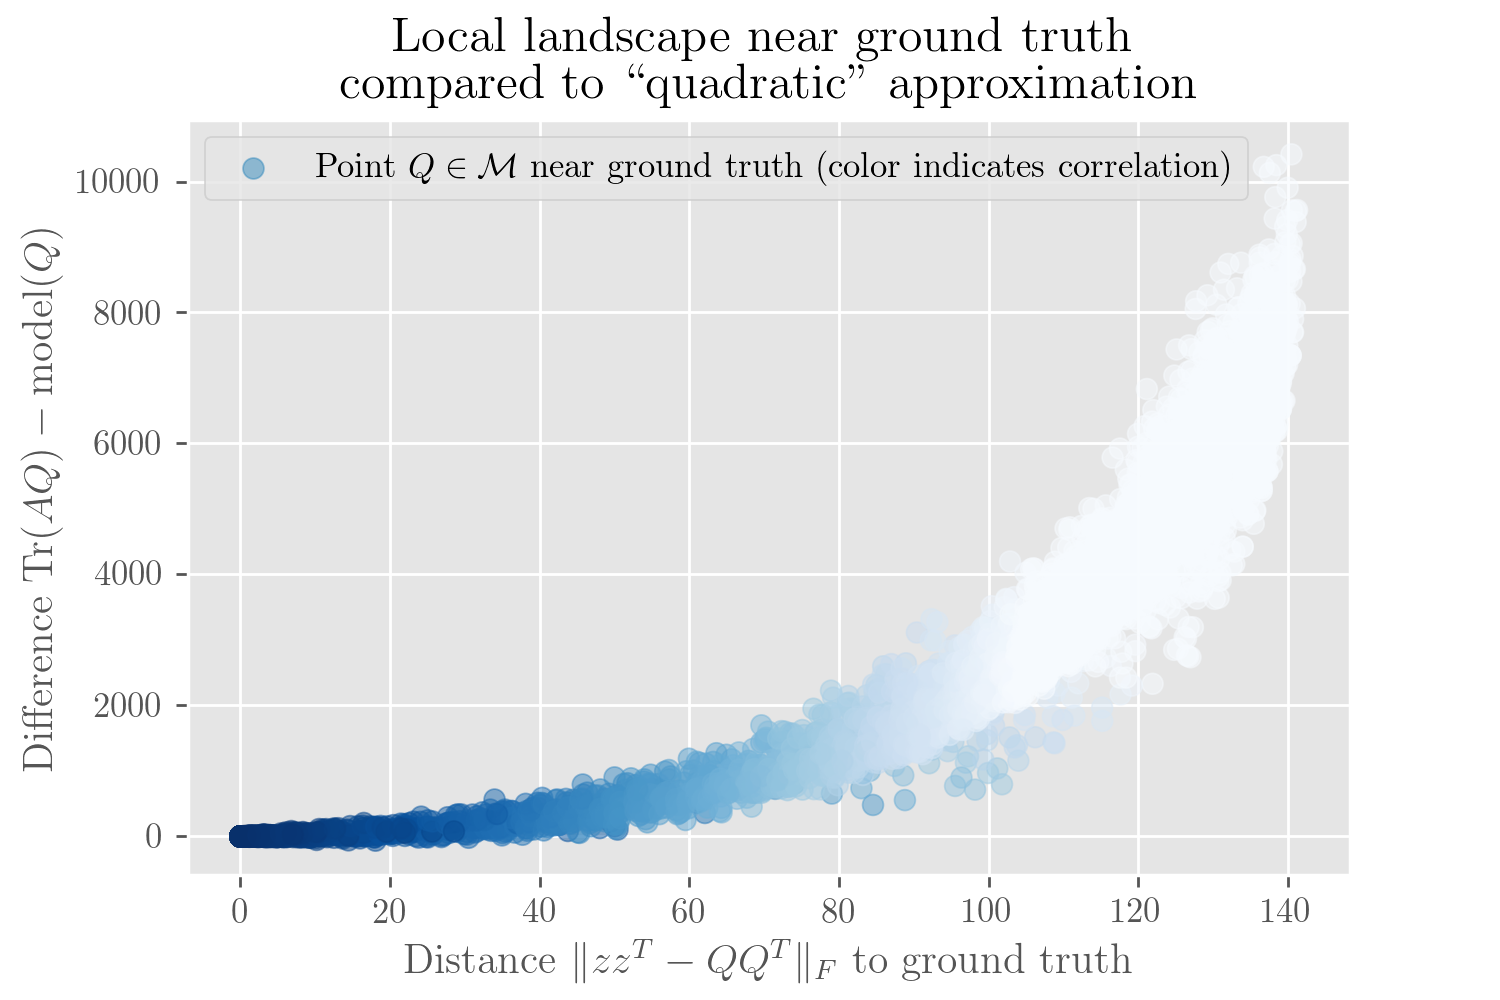
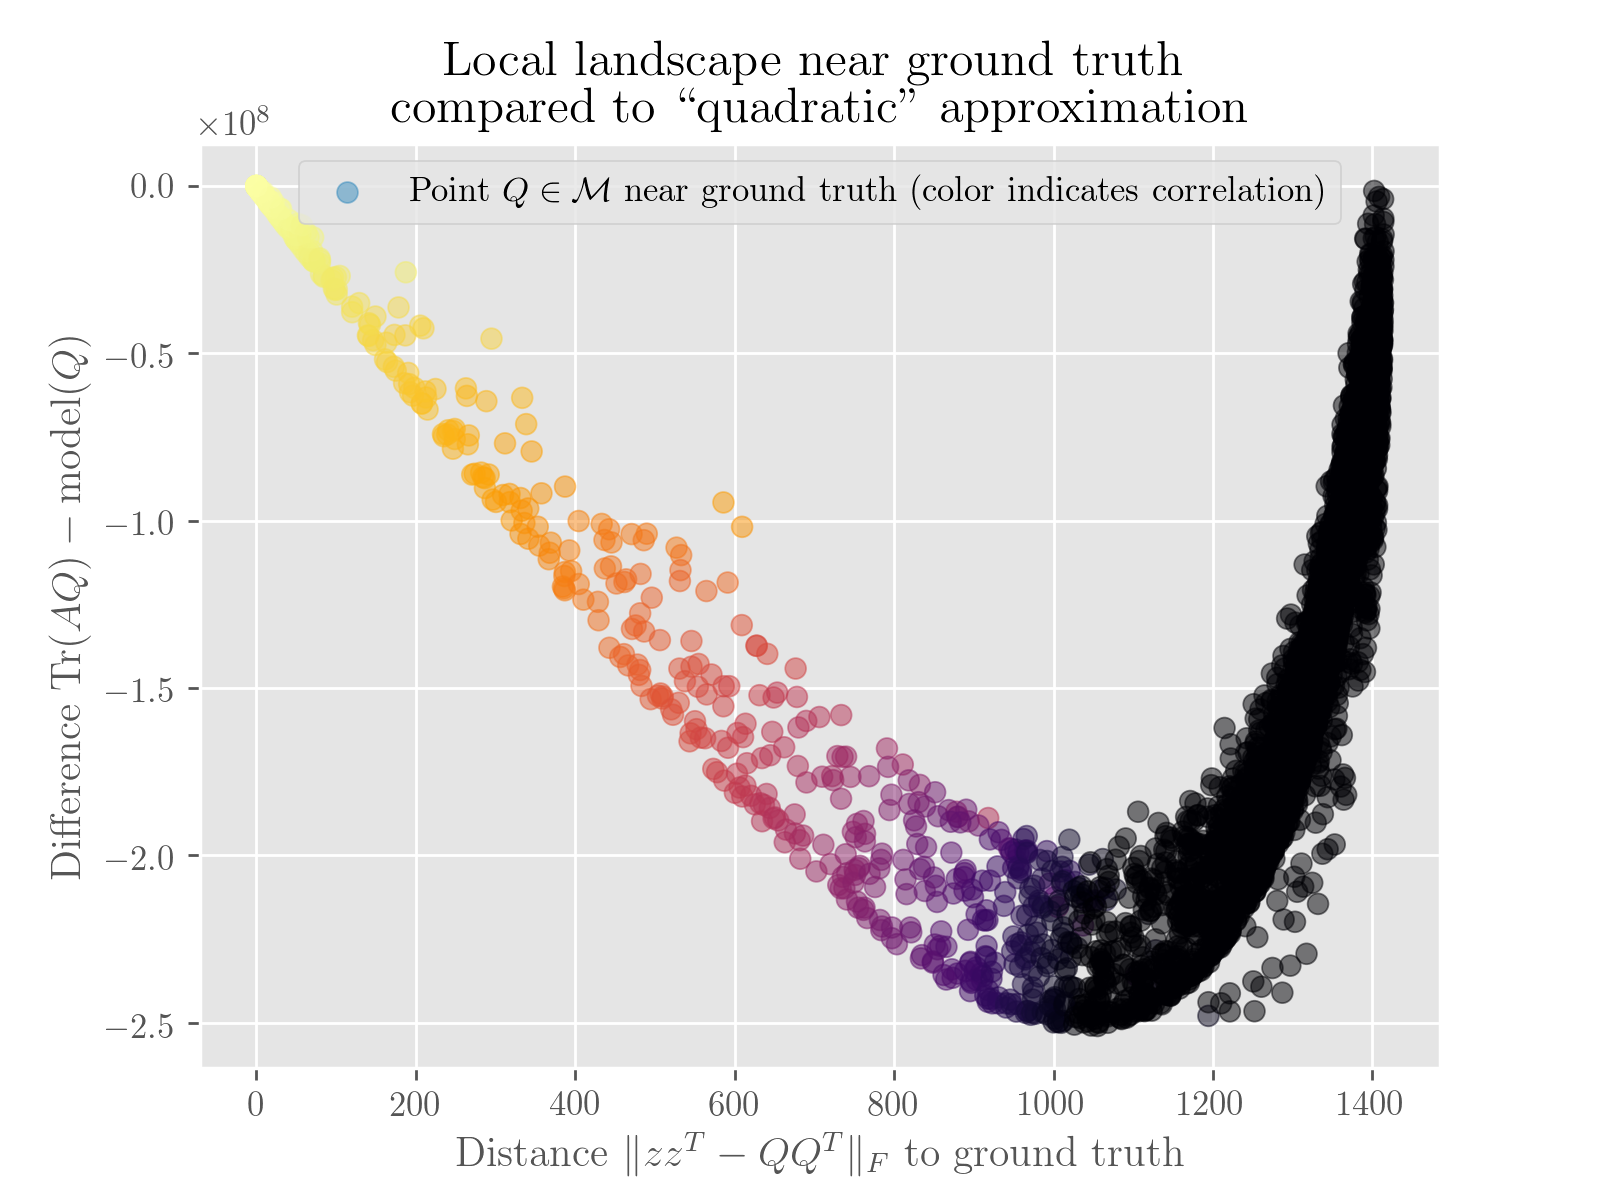
update color map

diff --git a/basin_of_attraction.py b/basin_of_attraction.py
@@ -52,7 +52,7 @@ def draw_landscape(info):
     plt.rc('font', family='serif')
     plt.scatter(distance_arr, diff_arr, alpha=0.5,
                 label=r'Point $Q\in\mathcal{M}$ near ground truth (color indicates correlation)',
-                c=corr_arr, cmap=plt.cm.get_cmap('Blues'), vmin=.5, vmax=1)
+                c=corr_arr, cmap=plt.cm.get_cmap('inferno'), vmin=.5, vmax=1)
     plt.title(
         r'Local landscape near ground truth\\ compared to ``quadratic" approximation')
     plt.xlabel(r'Distance $\|zz^T-QQ^T\|_F$ to ground truth')
@@ -150,6 +150,6 @@ def get_nearby_pt(ground_truth, distance):
 
 
 if __name__ == '__main__':
-    A, z = get_observation(100, 100, 'positive-sparse')
-    info = landscape(A, z, max_radius=50)
+    A, z = get_observation(10, 10, 'positive-sparse')
+    info = landscape(A, z, max_radius=5)
     draw_landscape(info)
